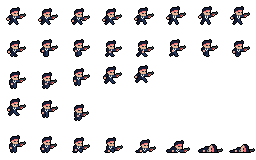
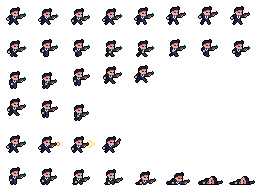
level

diff --git a/TheGame/src/main/Panel.java b/TheGame/src/main/Panel.java
@@ -8,9 +8,13 @@ import javax.swing.JPanel;
 import PlayerInput.KeyBoardInputs;
 import PlayerInput.MouseInputs;
 
+import static main.Game.GameWidth;
+import static main.Game.GameHeight;;
+
 
 public class Panel extends JPanel {
     private Game game;
+    
     public Panel(Game game) {
         this.game = game;
 
@@ -24,10 +28,9 @@ public class Panel extends JPanel {
         
     }
         private void Panelsize() {
-        Dimension size = Toolkit.getDefaultToolkit().getScreenSize();
-        setMinimumSize(size);
+        Dimension size = new Dimension(GameWidth, GameHeight);
         setPreferredSize(size);
-        setMaximumSize(size);
+        System.out.println("Size" + GameWidth + ":" + GameHeight);
         }
             public void GameUpdate (double deltaTime) {
             }

diff --git a/TheGame/src/main/Game.java b/TheGame/src/main/Game.java
@@ -16,6 +16,14 @@ public class Game implements Runnable {
 
     private Player player;
 
+    public final static int tileDefaultSize = 32;
+    public final static float Scale = 1.0f;
+    public final static int TilesWitdth = 32;
+    public final static int TilesHeight = 32;
+    public final static int TileSize = (int)(tileDefaultSize * Scale);
+    public final static int GameWidth = TileSize * TilesWitdth;
+     public final static int GameHeight = TileSize * TilesHeight;
+
     public Game() {
         initClasses();
 

diff --git a/TheGame/src/Utils/LoadSave.java b/TheGame/src/Utils/LoadSave.java
@@ -11,7 +11,7 @@ public class LoadSave {
     public static BufferedImage getSpriteAtlas(String fileName) {
         try (InputStream is = LoadSave.class.getResourceAsStream("/"+ fileName)) {
             if (is == null) {
-                System.err.println("Resource not found: /main_character.png");
+                System.err.println("Resource not found: " + fileName);
                 return null;
             }
             return ImageIO.read(is);

diff --git a/TheGame/src/Utils/Constans.java b/TheGame/src/Utils/Constans.java
@@ -28,7 +28,7 @@ public class Constans {
                 case FALLING:
                     return 3;
                 case ATTACKING:
-                    return 8;
+                    return 4;
                 case DYING:
                     return 8;
                 default:

diff --git a/TheGame/src/Levels/levelmaniger.java b/TheGame/src/Levels/levelmaniger.java
@@ -1,0 +1,14 @@
+package Levels;
+
+import java.awt.image.BufferedImage;
+
+import main.Game;
+
+public class levelmaniger {
+    private Game game;
+    private BufferedImage levelSprite;
+    public levelmaniger(Game game) {
+
+    }
+
+}

diff --git a/TheGame/src/Levels/level.java b/TheGame/src/Levels/level.java
@@ -1,0 +1,5 @@
+package Levels;
+
+public class level {
+
+}
